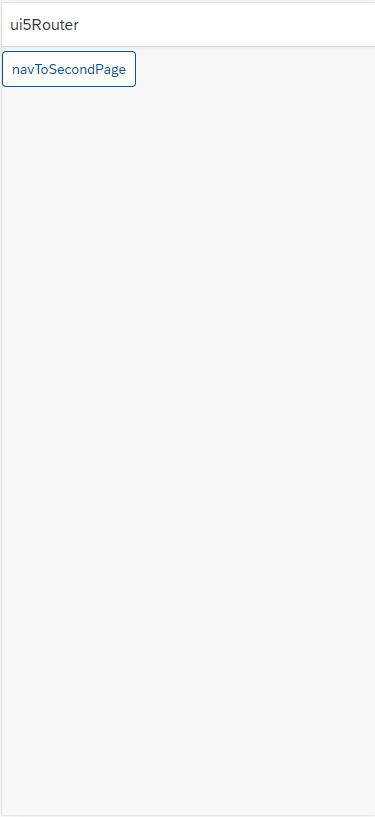
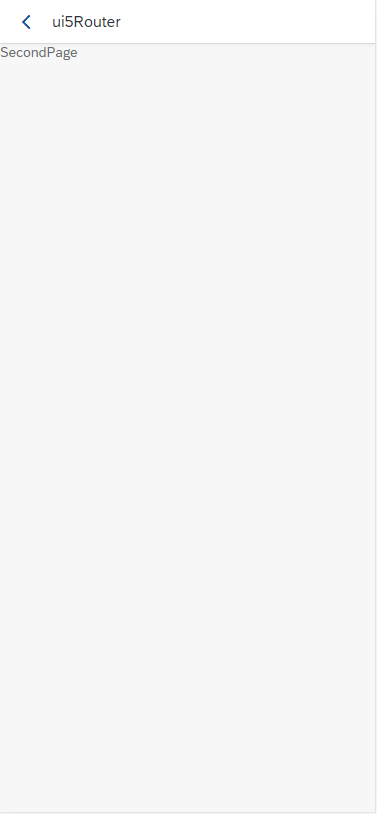
GitBook: [master] one page and 3 assets modified

Changed region(s): [[0.0, 0.0, 0.3813, 0.1229], [0.968, 0.0, 0.9973, 0.0614]]

diff --git a/open-ui5-tutorials/open-ui5-tutorials/tutorial-08.-routing.md b/open-ui5-tutorials/open-ui5-tutorials/tutorial-08.-routing.md
@@ -203,13 +203,15 @@ UI5는 라우팅 정보를 manifest.json 파일에 저장합니다. 먼저 confi
 
 ## Step 02. 디렉토리 구성 
 
-![](../../.gitbook/assets/image%20%2818%29.png)
+![](../../.gitbook/assets/image%20%2819%29.png)
 
 저희는 앞선 manifest.json 설정에서 MainView와 SecondView를 라우팅에 사용할 것으로 설정했습니다.  
 
 ## 결과화면
 
-![&#xCCAB;&#xBC88;&#xC9F8; &#xD398;&#xC774;&#xC9C0;](../../.gitbook/assets/image%20%2817%29.png)
+![&#xCCAB;&#xBC88;&#xC9F8; &#xD398;&#xC774;&#xC9C0;](../../.gitbook/assets/image%20%2818%29.png)
+
+![&#xB450;&#xBC88;&#xC9F8; &#xD398;&#xC774;&#xC9C0;](../../.gitbook/assets/image%20%2817%29.png)
 
 
 
